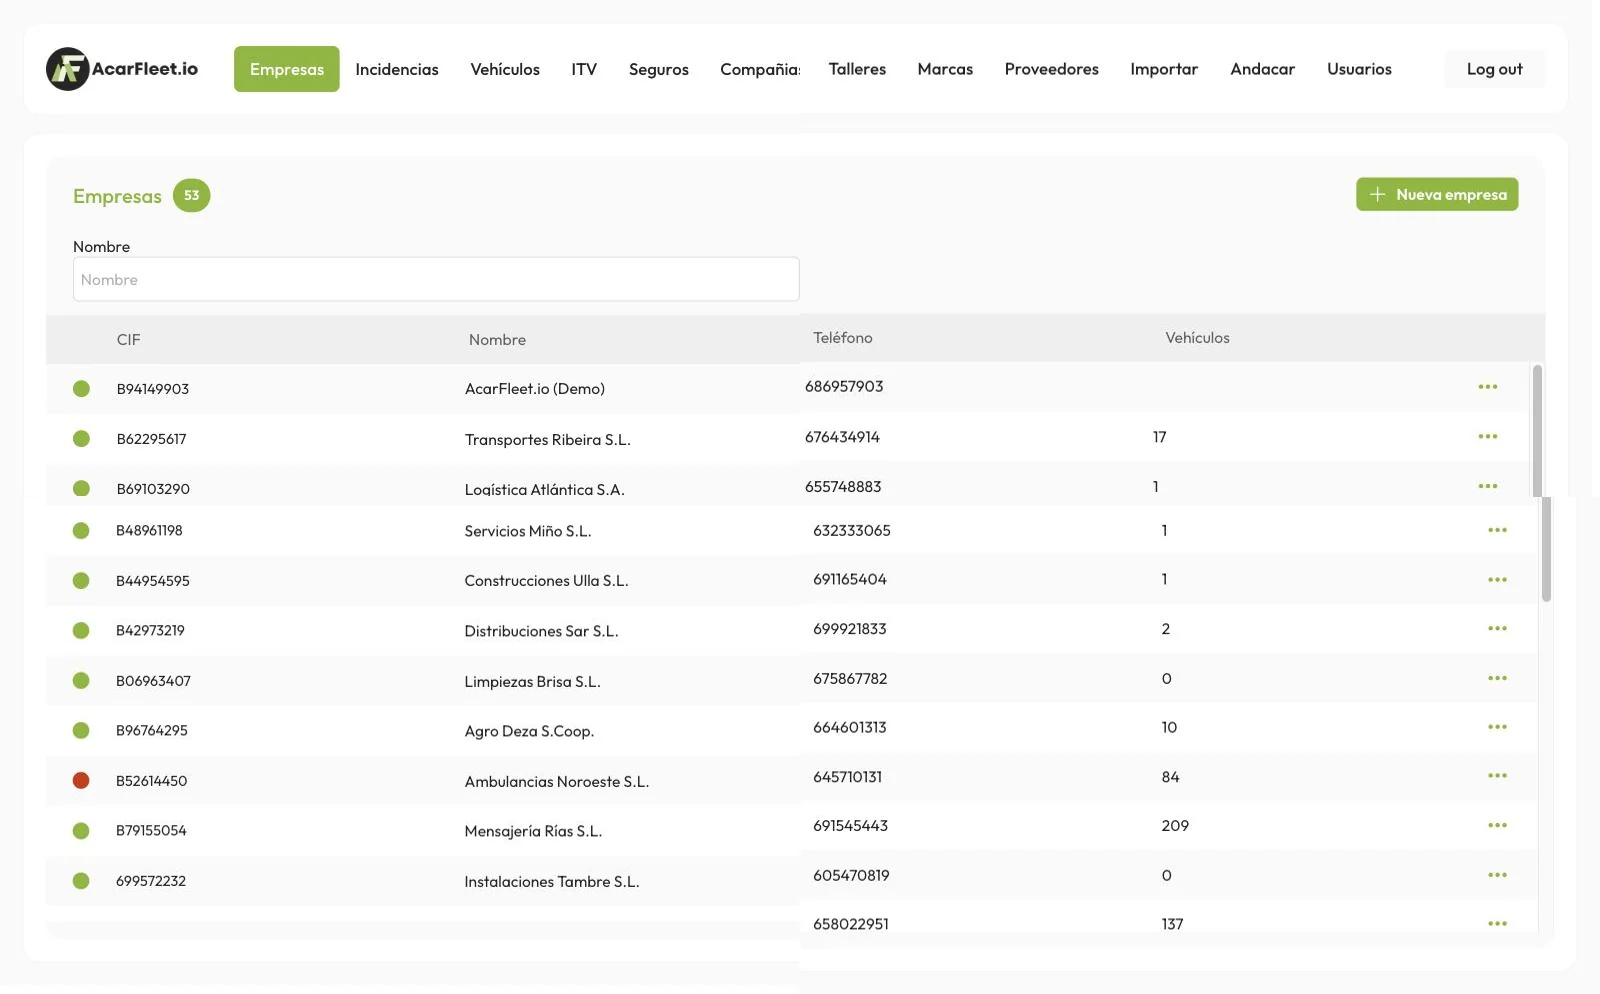
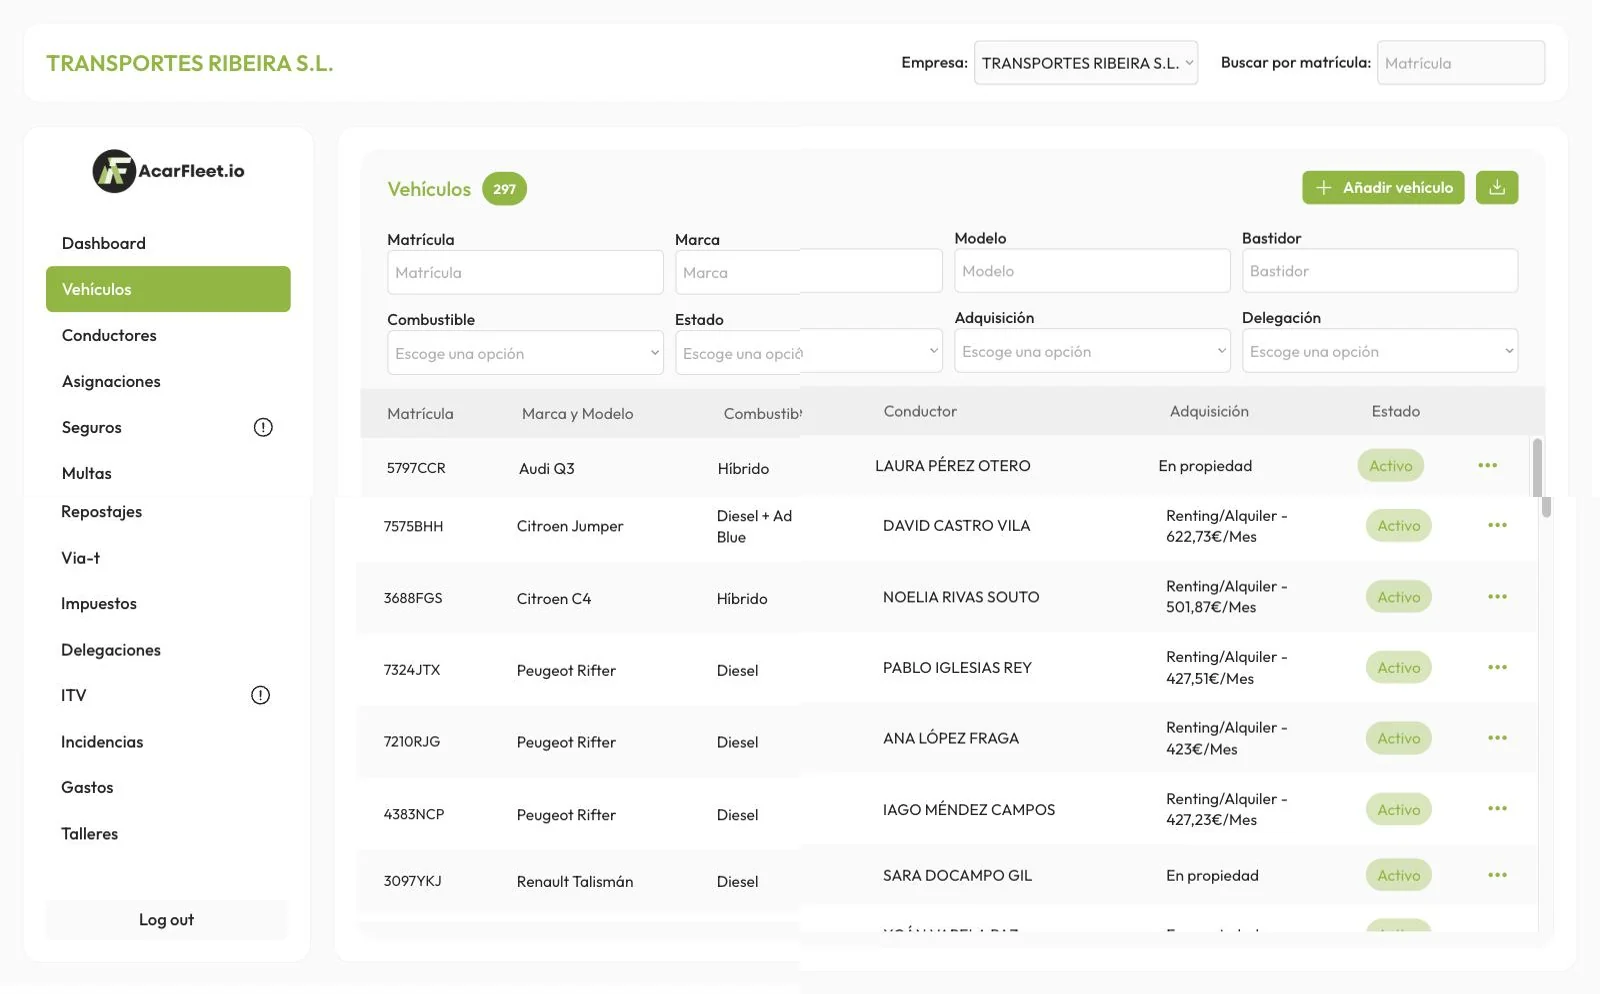
Captura de Patrimonio con datos ficticios y nueva captura de AcarFleet
Claude-Session: https://claude.ai/code/session_013RqpUg8CUXH8mTNbHMMy1u

diff --git a/main.js b/main.js
@@ -56,7 +56,7 @@ const PROJECTS = [
            'After launch I reworked how driver information is collected for incidents, once I saw they weren’t using it as expected.']
     },
     shots: [
-      { src: 'assets/shots/acarfleet-1.webp', es: 'Panel de empresas (nombres y datos ficticios)', en: 'Companies dashboard (fictional names and data)' }
+      { src: 'assets/shots/acarfleet-1.webp', es: 'Flota de una empresa cliente (matrículas, nombres y empresa ficticios)', en: 'A client company’s fleet (fictional plates, names and company)' }
     ]
   },
   {
@@ -94,13 +94,17 @@ const PROJECTS = [
       en: 'A mini app to keep track of my personal finances: income, spending and investments in one place. It’s a web app that reads and writes to a Google Sheet; I built it with AI, with no server or separate database, because the sheet is the database. The figures in the screenshots are made up.'
     },
     points: {
-      es: ['La hoja de cálculo hace de backend y la web app de interfaz.',
-           'Ejemplo de cómo resolver un problema propio en una tarde con IA, en lugar de pagar otra suscripción.'],
-      en: ['The spreadsheet is the backend; the web app is the interface.',
-           'An example of solving my own problem in an afternoon with AI instead of paying for another subscription.']
+      es: ['Resumen del patrimonio por cuenta, con su evolución mes a mes.',
+           'Movimientos, inversiones con su plusvalía, dividendos y cálculo de impuestos por tramos.',
+           'Objetivos de ahorro con lo que falta y cuánto apartar al mes.',
+           'La hoja de cálculo hace de backend; también se pueden apuntar gastos desde Atajos del iPhone.'],
+      en: ['Net worth by account, with its month-by-month evolution.',
+           'Transactions, investments with unrealised gains, dividends and bracket-based tax estimates.',
+           'Savings goals showing what’s left and how much to set aside each month.',
+           'The spreadsheet is the backend; expenses can also be logged from iPhone Shortcuts.']
     },
     shots: [
-      { src: 'assets/shots/patrimonio-1.webp', es: 'Vista general (datos ficticios)', en: 'Overview (fictional data)' }
+      { src: 'assets/shots/patrimonio-1.webp', es: 'Resumen del patrimonio (datos ficticios)', en: 'Net worth overview (fictional data)' }
     ]
   },
   {
